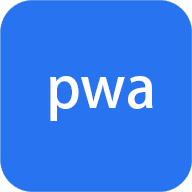
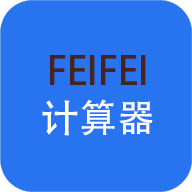
更改icon

Changed region(s): [[0.2188, 0.2812, 0.8125, 0.7188]]

diff --git a/public/index.html b/public/index.html
@@ -2,7 +2,7 @@
 <html>
   <head>
     <meta charset="UTF-8" />
-    <title>WebSocket Chat</title>
+    <title>FEIFEI计算器</title>
     <link rel="manifest" href="./manifest.json" />
     <link rel="stylesheet" type="text/css" href="index.css" />
   </head>
@@ -28,7 +28,7 @@
         <span class="operator">÷</span>
         <span>0</span>
         <span>.</span>
-        <span class="eval">=</span>
+        <span class="eval" id="btn">=</span>
         <span class="operator">x</span>
       </div>
     </div>

diff --git a/public/sw.js b/public/sw.js
@@ -19,7 +19,8 @@ this.addEventListener('install', function(event) {
         './index.css',
         './manifest.json',
         './img/android-chrome-192x192.png',
-        './img/android-chrome-512x512.png'
+        './img/android-chrome-512x512.png',
+        './index.js'
       ]);
     })
   );
